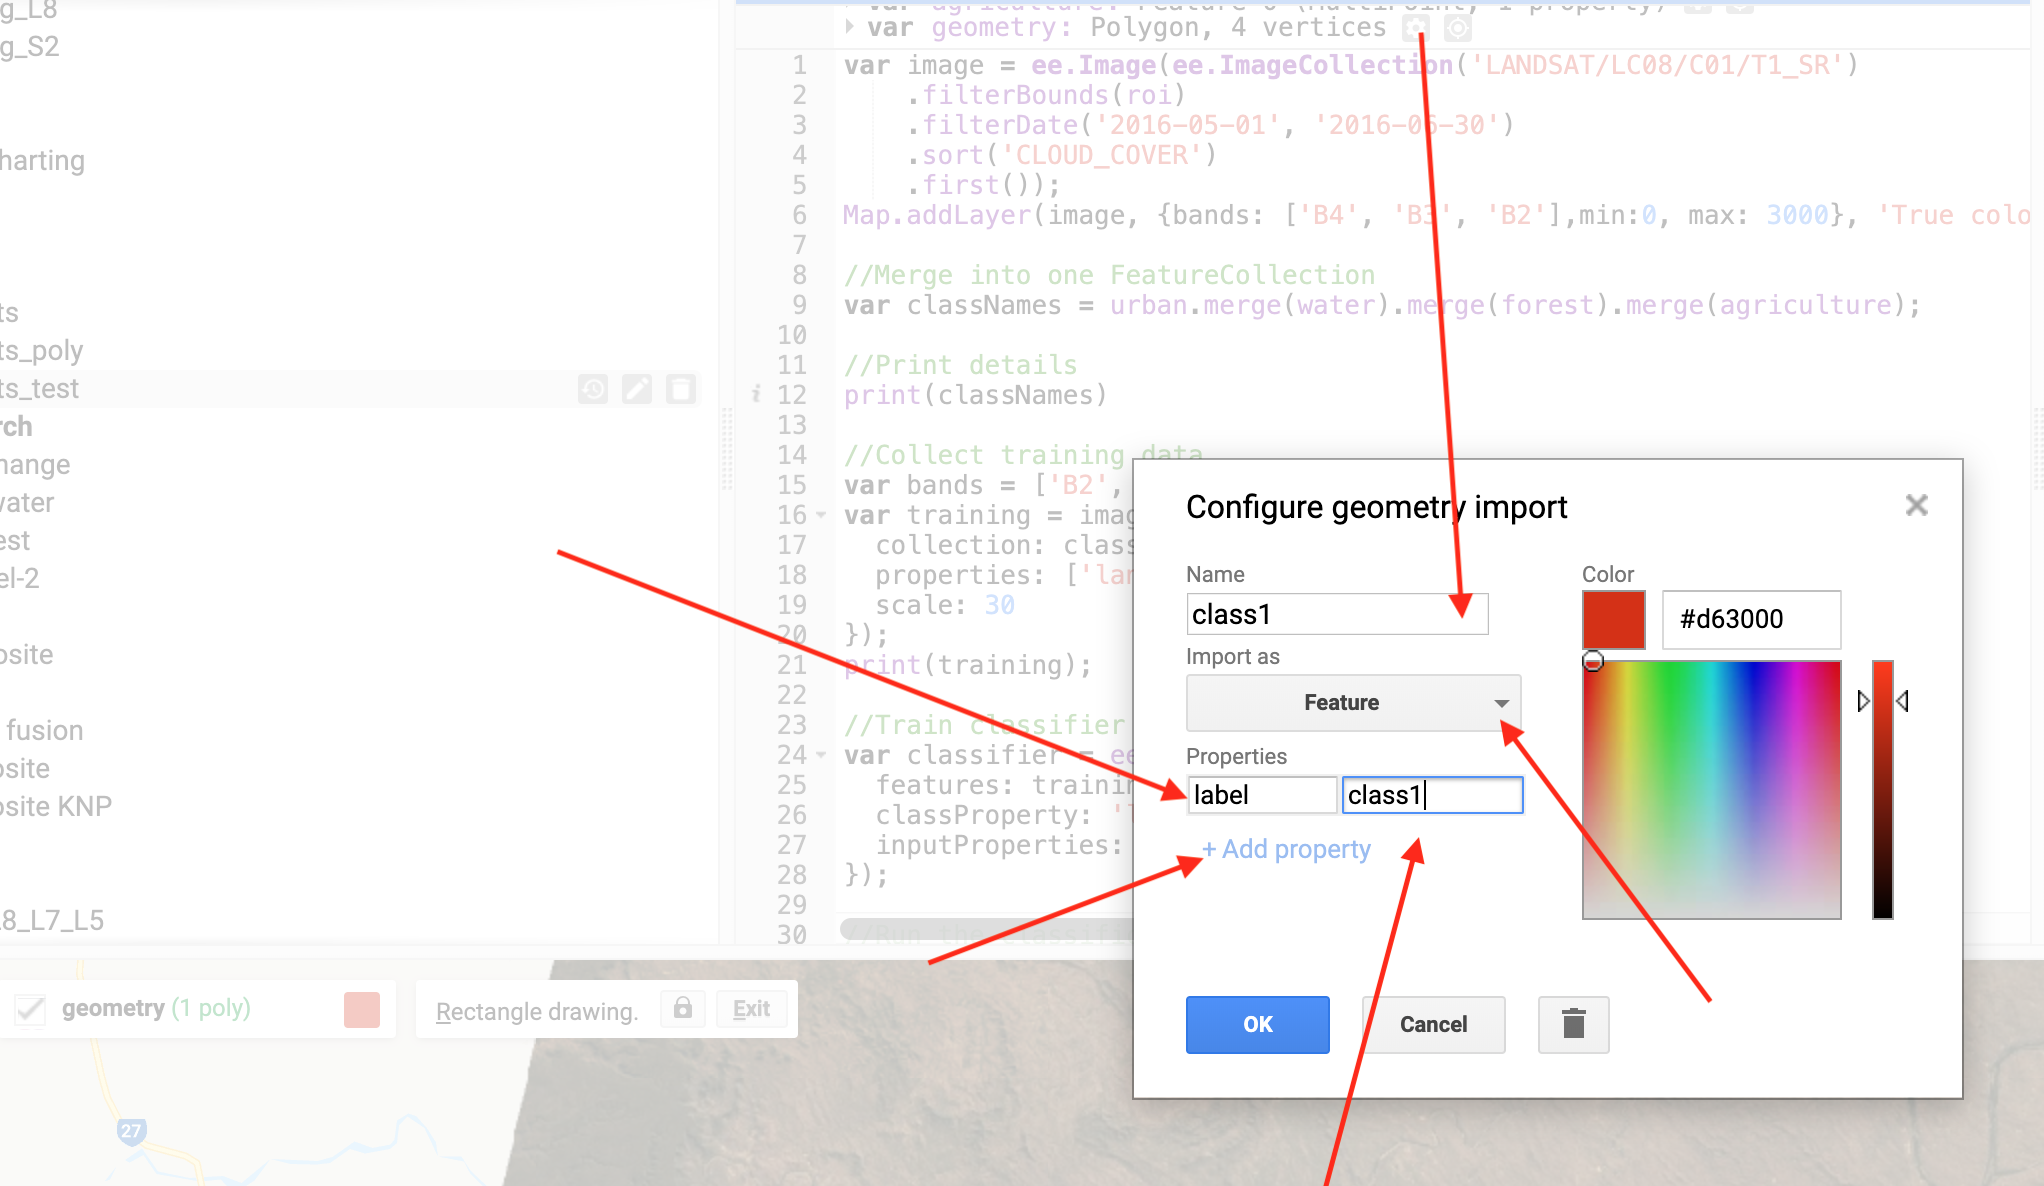
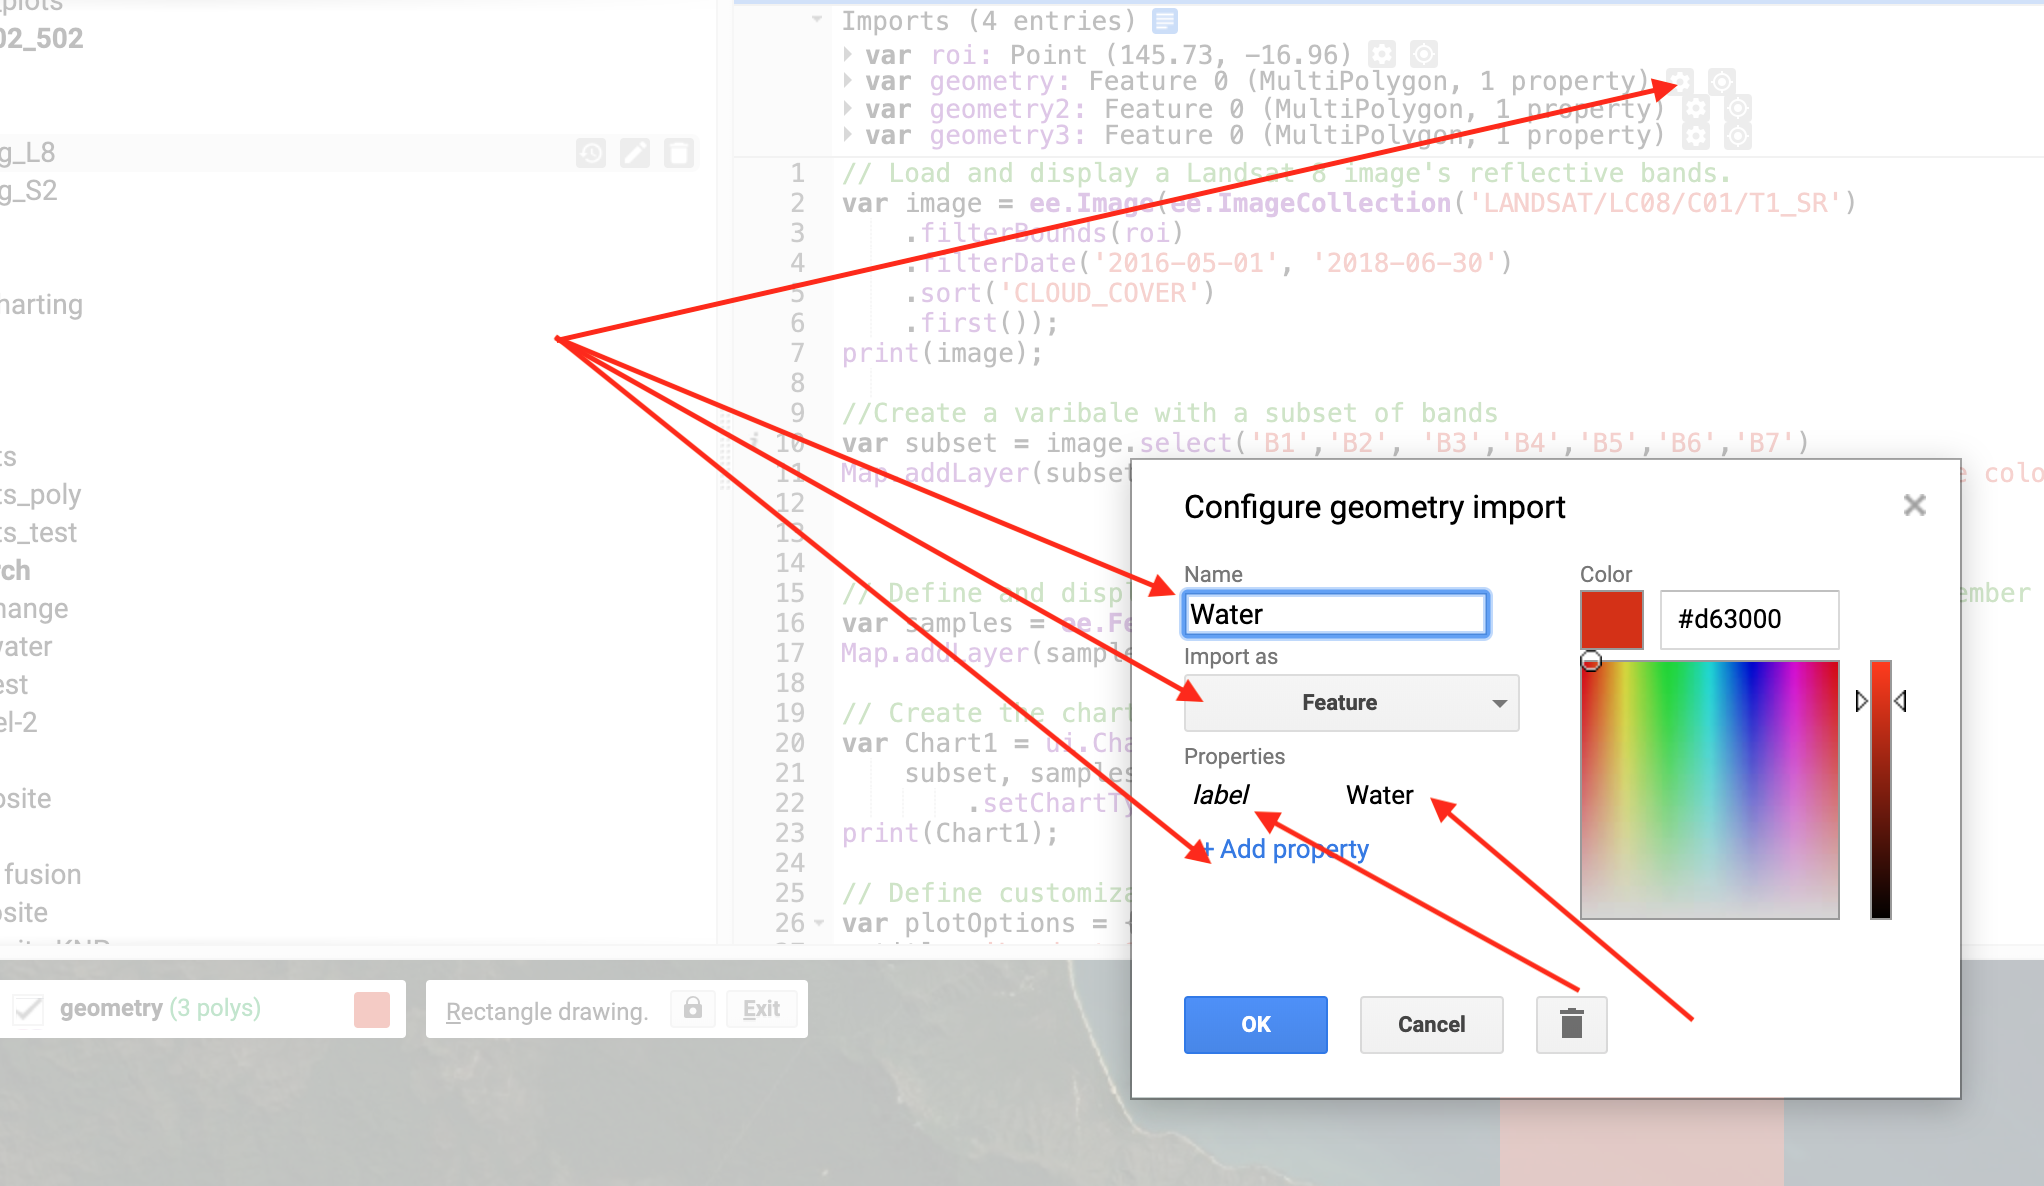
Update

diff --git a/Intro_RS_Lab5.md b/Intro_RS_Lab5.md
@@ -101,14 +101,14 @@ We ended last week with a discussion on whether or not we were happy with this c
 
 A very useful step in any classification is understanding how separable the classes are based on their spectral response curves. We have explored this already by clicking on individual pixels and looking at the reflectance bar-charts in the console. But how can we explore multiple pixels and classes at the same time? We need to summarise the information and plot it as a graph.
 
-First we will specify which bands to use, and create new polygons for each class we want to explore. Change the geometry type to Feature and and define a 'label' in the properties tab.
+First we will specify which bands to use, and create new polygons for three classes (Water, Forest, City) we want to explore. Change the geometry type to Feature and and define a 'label' in the properties tab.
 
 ![Figure 2. Defining Feature and Labels](screenshots/l5_feature.png)
 
 ```JavaScript
 //Choose bands to include and define feature collection to use
 var subset = image.select('B[1-7]')
-var samples = ee.FeatureCollection([class1,class2,class3,class4]);
+var samples = ee.FeatureCollection([Water,Forest,City]);
 ```
 
 Now we can create a chart variable and then print it to the console. We use the image.regions function to summarise by class region, and the ee.Reducer.mean() function to obtain the mean reflectance vale for each class for each band.
@@ -131,10 +131,9 @@ var plotOptions = {
   lineWidth: 1,
   pointSize: 4,
   series: {
-    0: {color: 'red'}, // urban
-    1: {color: 'blue'}, // water
-    2: {color: 'green'}, // forestry
-    3: {color: 'orange'}, // agriculture
+    0: {color: 'blue'}, // Water
+    1: {color: 'green'}, // Forest
+    2: {color: 'red'}, // City
 }};
 ```
 
@@ -153,7 +152,9 @@ var Chart2 = ui.Chart.image.regions(
 print(Chart2);
 ```
 
+## Exercises
 
+- Try and run a supervised classification and plot spectra for a Sentinel-2 image, instead of a Landsat-8 one
 
 -------
 ### Thank you
